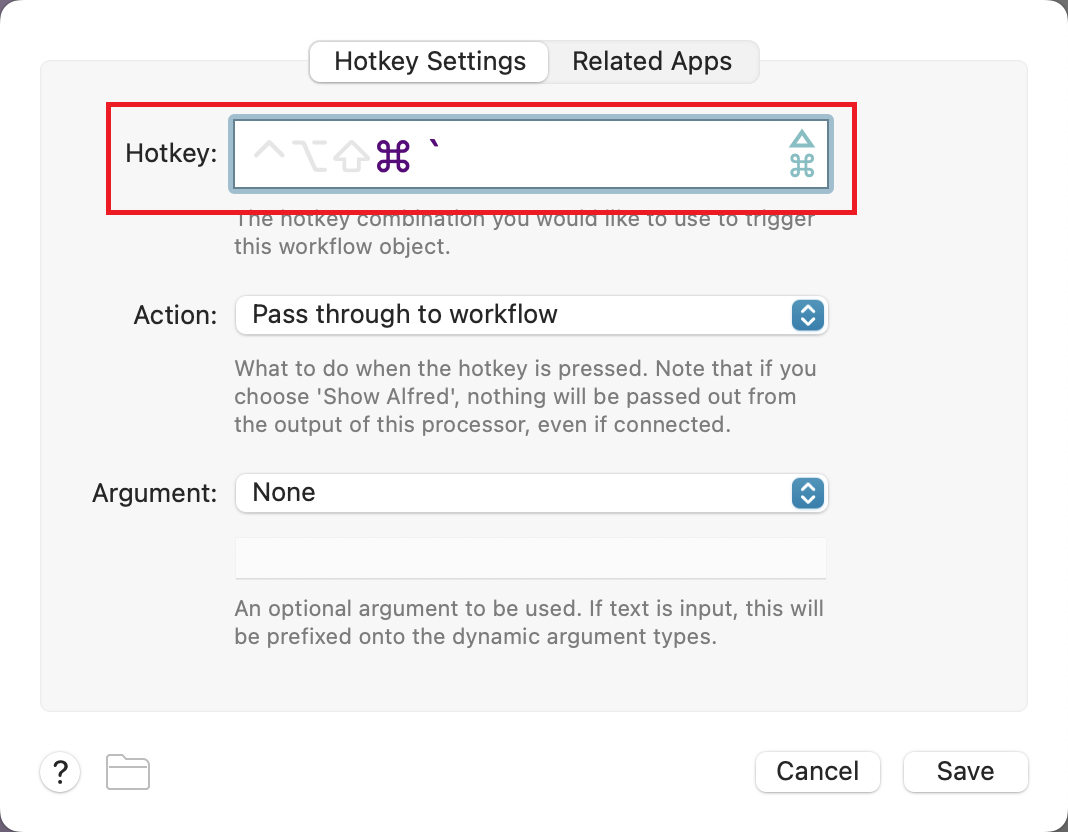
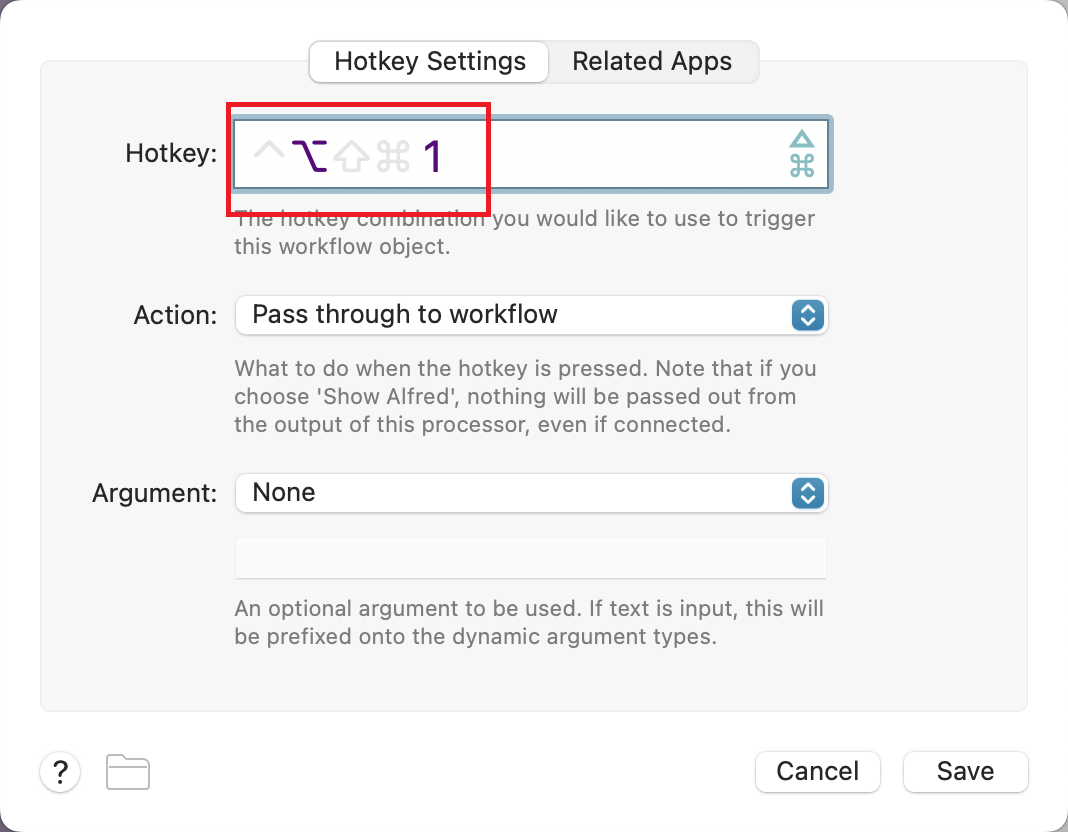
Alfred 激活组件

diff --git a/docs/tools/hoist/Alfred.md b/docs/tools/hoist/Alfred.md
@@ -136,11 +136,15 @@ layout: doc
 
     ![Alfred](/Alfred_21.png)
 
-  - frontiterm 全局快捷键 command + ` 打开/激活 iterm
+  - frontiterm 全局快捷键 option(⌥) + 1 打开/激活 Typora
 
     ![Alfred](/Alfred_22.png)
 
     ![Alfred](/Alfred_23.png)
+    
+    ![Alfred](/Alfred_35.png)
+    
+    ![Alfred](/Alfred_36.png)
 
   - sequence 生成序列，多用于列编辑
 
